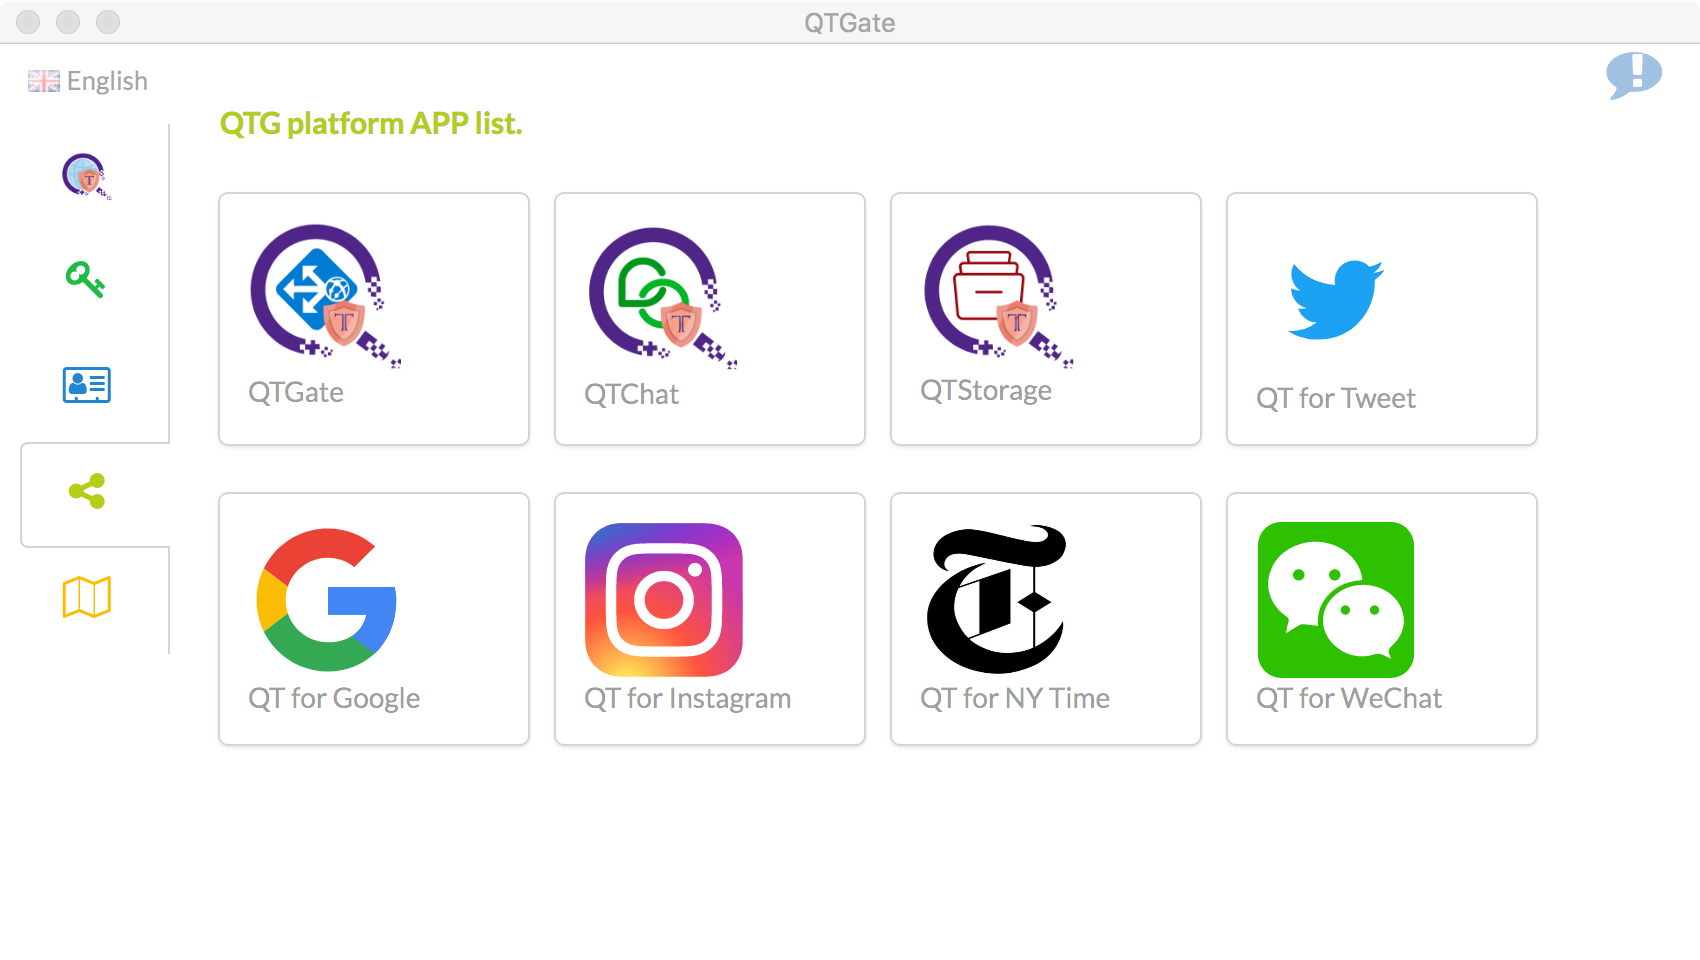
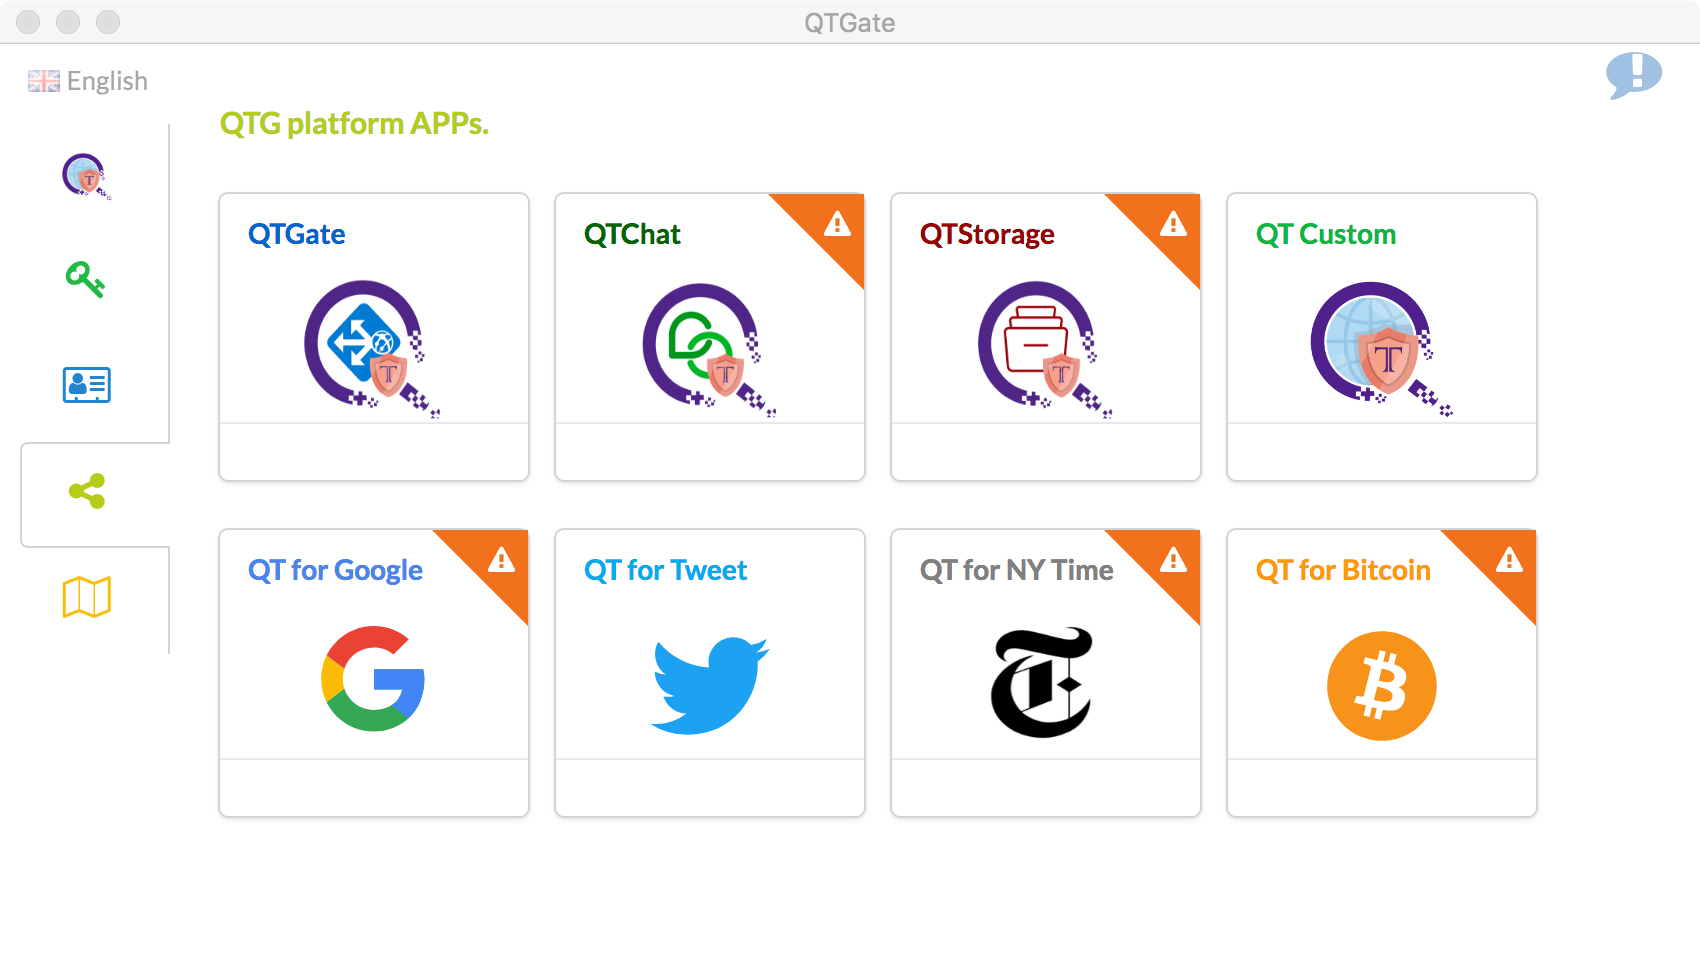
v1.3.0

diff --git a/app/public/scripts/siteShare.ts b/app/public/scripts/siteShare.ts
@@ -563,19 +563,19 @@ const infoDefine = [
             comesoon:'即将推出',
             information: 'QTG平台的应用程序',
             qtgateGateway: 'QTGate提供的高质量上网技术iOPN和@OPN，在QTGate全球16个区域，当场定制您专属的代理服务器，变换您的IP地址隐身无障碍的访问互联网',
-            app:['Q梯', 'Q信', 'QT石洞','QT平台业务定制','QT谷歌','QT推特','QT Instagram','QT纽时','QT微信'],
+            app:['Q梯', 'Q信', 'QT石洞','QT平台业务定制','QT谷歌','QT推特','QT Instagram','QT纽时','QT微信','QT比特币钱包'],
             
             dimmer: [
-                'QTGate提供的高质量定制VPN服务器业务，能够让您隐身安全的不受别人注意的网上冲浪。',
-                'QTGate提供的推特风格隐身匿名不被封锁的社交媒体',
-                'QTGate提供的安全隐私文件存储系统',
-                'QTGate承接定制各类公众服务类及跨国企业私有APP业务',
-                'QTGate提供的免VPN免代理谷歌检索客户端',
-                'QTGate提供的免VPN免代理推特客户端',
-                'QTGate提供的免VPN免代理Instagram客户端',
-                'QTGate提供的免VPN免代理纽约时报客户端',
-                'QTGate提供的隐身微信客户端，可点对点加密通讯',
-                
+                '高质量定制VPN代理服务器，让您隐身安全不受注意的网上冲浪。 ',
+                '推特风格隐身匿名去中心化不被封锁的社交媒体',
+                '安全隐私文件存储系统',
+                'QTG承接定制各类公众服务类及跨国企业私有APP业务',
+                '免代理匿名谷歌检索客户端',
+                '免代理匿名推特客户端',
+                '免代理匿名Instagram客户端',
+                '免代理匿名纽约时报客户端',
+                '免代理匿名微信客户端，点对点加密通讯',
+                '不被封锁的比特币钱包客户端'
             ]
         }, 
 
@@ -751,18 +751,19 @@ const infoDefine = [
             comesoon:'まもなく登場します。',
             information: 'QTGプラットフォームアプリケーション',
             qtgateGateway:'QTGateご提供する高品質ゲットウェイサービス、グローバルに１６区域とQTGate独自のiOPNと@OPN技術により、貴方のIPアドレスをカバーして、静かに無障害にインターネットの世界へ可能です。',
-            app:['QTGate', 'QTChat', 'QTStorage','QTカスタム業務','QT for Google','QT for Tweet','QT for Instagram','QT for NY Time','QT for WeChat'],
+            app:['QTGate', 'QTChat', 'QTStorage','QTカスタム業務','QT for Google','QT for Tweet','QT for Instagram','QT for NY Time','QT for WeChat','QT ' ],
             
             dimmer: [
-                'QTGateご提供する高品質ゲットウェイサービス、静かに無障害にインターネットの世界へ可能です。',
-                'QTGateご提供するツイートスタイルの匿名ソーシャルメディア',
-                'QTGateご提供する匿名ファイルプライバシーストレージ',
-                'QTGateプラットフォームに公衆及び私有ビジネスAPPの作成業務',
-                'QTGateご提供するVPN不要あなたのIPアドレスをカバーして匿名Googleサーチ端末',
-                'QTGateご提供するVPN不要あなたのIPアドレスをカバーして匿名Tweet端末',
-                'QTGateご提供するVPN不要あなたのIPアドレスをカバーして匿名Instagram端末',
-                'QTGateご提供するVPN不要あなたのIPアドレスをカバーして匿名NY Time端末',
-                'QTGateご提供するVPN不要あなたのIPアドレスをカバーして匿名WeChat端末',
+                '高品質ゲットウェイサービス、静かに自由になるインターネットの世界へ',
+                'ツイートスタイルの匿名ソーシャルメディア',
+                'QTGご提供する匿名ファイルプライバシーストレージ',
+                'QTGプラットフォームに公衆及び私有ビジネスAPPの作成業務',
+                'QTGご提供するVPN不要な匿名Googleサーチ端末',
+                'QTGご提供するVPN不要な匿名Tweet端末',
+                'QTGご提供するVPN不要な匿名Instagram端末',
+                'QTGご提供するVPN不要な匿名NY Time端末',
+                'QTGご提供するVPN不要な匿名WeChat端末',
+                'QTGご提供する無障害通信ビットコイン財布端末'
                 
             ]
         }, 
@@ -1348,19 +1349,19 @@ const infoDefine = [
             information: 'QTG platform APPs.',
             comesoon:'Come soon.',
             qtgateGateway: 'QTGate gateway service. High speed, total privacy, ultra secure and easy to use. Your gateway to a secure and open internet.',
-            app:['QTGate', 'QTChat', 'QTStorage','QT Custom','QT for Google','QT for Tweet','QT for Instagram','QT for NY Time','QT for WeChat'],
+            app:['QTGate', 'QTChat', 'QTStorage','QT Custom','QT for Google','QT for Tweet','QT for Instagram','QT for NY Time','QT for WeChat','QT for Bitcoin'],
             
             dimmer: [
                 'QTGate gateway service. High speed, to a secure and open internet.',
-                'Private and secure, Tweet style social media.',
+                'Private and secure, decentralized Tweet style social media.',
                 'The secure and Private cloud storage and file sharing.',
-                'QTGate provate custom business for public and private APP.',
+                'Provate custom business solution for public or private APPs in QTG platform.',
                 'Privacy Google search client without VPN.',
                 'Privacy Tweet client without VPN.',
                 'Privacy Instagram client without VPN.',
                 'Privacy NY Time client without VPN.',
                 'Privacy WeChat client without VPN.',
-                
+                'QTG for Bitcoin wallet, without VPN.'
             ]
         }, 
         account:{
@@ -1984,19 +1985,20 @@ const infoDefine = [
         thirdParty: {
             information: 'QTG匿名平台應用程序',
             comesoon:'即將登場',
-            app:['Q梯','Q信','QT石洞','QT平台業務訂製','QT谷歌','QT推特','QT Instagram','QT紐時','QT微信'],
+            app:['Q梯','Q信','QT石洞','QT平台業務訂製','QT谷歌','QT推特','QT Instagram','QT紐時','QT微信','QT比特幣錢包'],
             qtgateGateway: 'QTGate提供的高質量上網技術iOPN和@OPN，在QTGate全球16個區域，當場定制您專屬的代理服務器，變換您的IP地址隱身無障礙的訪問互聯網',
             
             dimmer: [
-                'QTGate提供的高質量定制VPN服務器業務，能夠讓您隱身安全的不受別人注意的網上沖浪。 ',
-                'QTGate提供的推特風格隱身匿名不被封鎖的社交媒體',
-                'QTGate提供的安全隱私文件存儲系統',
-                'QTGate承接定制各類公眾服務類及跨國企業私有APP業務',
-                'QTGate提供的免VPN免代理谷歌檢索客戶端',
-                'QTGate提供的免VPN免代理推特客戶端',
-                'QTGate提供的免VPN免代理Instagram客戶端',
-                'QTGate提供的免VPN免代理紐約時報客戶端',
-                'QTGate提供的隱身微信客戶端，可點對點加密通訊',
+                '高質量定制VPN代理服務器，讓您隱身安全不受注意的網上沖浪。',
+                '推特風格隱身匿名去中心化不被封鎖的社交媒體',
+                '安全隱私文件存儲系統',
+                'QTG承接定制各類公眾服務類及跨國企業私有APP業務',
+                '免代理匿名谷歌檢索客戶端',
+                '免代理匿名推特客戶端',
+                '免代理匿名Instagram客戶端',
+                '免代理匿名紐約時報客戶端',
+                '免代理匿名微信客戶端，點對點加密通訊',
+                '不被封鎖的比特幣錢包客戶端'
                 
             ]
         }, 

diff --git a/app/public/scripts/home.ts b/app/public/scripts/home.ts
@@ -2931,6 +2931,7 @@ const appList = [
         commentCount: ko.observable(),
         titleColor: '#0066cc',
         comeSoon: false,
+        show: true,
         click: ( view: view_layout.view ) => { return view.QTGateAppClick () },
         image: '/images/qtgateGateway.png'
     },{
@@ -2940,6 +2941,7 @@ const appList = [
         commentCount: ko.observable(0),
         titleColor: '#006600',
         comeSoon: true,
+        show: true,
         image: '/images/qtchat.png',
         click: ( view: view_layout.view ) => { return },
     },{
@@ -2949,6 +2951,7 @@ const appList = [
         commentCount: ko.observable(0),
         titleColor: '#990000',
         comeSoon: true,
+        show: true,
         image: '/images/qtStorage.png',
         click: ( view: view_layout.view ) => { return },
     },{
@@ -2958,6 +2961,7 @@ const appList = [
         commentCount: ko.observable(0),
         titleColor: '#09b83e',
         comeSoon: false,
+        show: true,
         image: '/images/512x512.png',
         click: ( view: view_layout.view ) => { return },
     },{
@@ -2967,6 +2971,7 @@ const appList = [
         commentCount: ko.observable(0),
         titleColor: '#4885ed',
         comeSoon: true,
+        show: true,
         image: '/images/Google__G__Logo.svg',
         click: ( view: view_layout.view ) => { return },
     },{
@@ -2976,38 +2981,60 @@ const appList = [
         commentCount: ko.observable(0),
         titleColor: '#00aced',
         comeSoon: false,
+        show: true,
         image: '/images/Twitter_Logo_Blue.svg',
         click: ( view: view_layout.view ) => { 
             const { shell } = require ( 'electron' )
             event.preventDefault ()
             return shell.openExternal ( `http://${ view.config().localIpAddress[0] }:2000/Twitter` )
         },
-    },{
+    },
+
+    {
         name: 'QTInstagram',
         likeCount: ko.observable (0),
         liked: ko.observable (false),
         commentCount: ko.observable(0),
         titleColor: '#cd486b',
+        show: false,
         image: '/images/Instagram_logo_2016.svg',
         comeSoon: true,
         click: ( view: view_layout.view ) => { return },
-    },{
+    }
+    
+    ,{
         name: 'QTNYTime',
         likeCount: ko.observable (0),
         liked: ko.observable (false),
         commentCount: ko.observable(0),
         titleColor: 'grey',
         comeSoon: true,
+        show: true,
         image: '/images/nyt.png',
         click: ( view: view_layout.view ) => { return },
-    },{
+    },
+    
+    {
         name: 'QTWeChat',
         likeCount: ko.observable (0),
         liked: ko.observable (false),
         commentCount: ko.observable(0),
         titleColor: '#09b83e',
         comeSoon: true,
+        show: false,
         image: '/images/wechat.svg',
+        click: ( view: view_layout.view ) => { return },
+    }
+    
+    ,{
+        name: 'QTBitcoin',
+        show: true,
+        likeCount: ko.observable (0),
+        liked: ko.observable ( false ),
+        commentCount: ko.observable(0),
+        titleColor: '#FF9900',
+        comeSoon: true,
+        image: '/images/Bitcoin.svg',
         click: ( view: view_layout.view ) => { return },
     }
 ]

diff --git a/app/public/scripts/home.js b/app/public/scripts/home.js
@@ -2568,6 +2568,7 @@ const appList = [
         commentCount: ko.observable(),
         titleColor: '#0066cc',
         comeSoon: false,
+        show: true,
         click: (view) => { return view.QTGateAppClick(); },
         image: '/images/qtgateGateway.png'
     }, {
@@ -2577,6 +2578,7 @@ const appList = [
         commentCount: ko.observable(0),
         titleColor: '#006600',
         comeSoon: true,
+        show: true,
         image: '/images/qtchat.png',
         click: (view) => { return; },
     }, {
@@ -2586,6 +2588,7 @@ const appList = [
         commentCount: ko.observable(0),
         titleColor: '#990000',
         comeSoon: true,
+        show: true,
         image: '/images/qtStorage.png',
         click: (view) => { return; },
     }, {
@@ -2595,6 +2598,7 @@ const appList = [
         commentCount: ko.observable(0),
         titleColor: '#09b83e',
         comeSoon: false,
+        show: true,
         image: '/images/512x512.png',
         click: (view) => { return; },
     }, {
@@ -2604,6 +2608,7 @@ const appList = [
         commentCount: ko.observable(0),
         titleColor: '#4885ed',
         comeSoon: true,
+        show: true,
         image: '/images/Google__G__Logo.svg',
         click: (view) => { return; },
     }, {
@@ -2613,38 +2618,56 @@ const appList = [
         commentCount: ko.observable(0),
         titleColor: '#00aced',
         comeSoon: false,
+        show: true,
         image: '/images/Twitter_Logo_Blue.svg',
         click: (view) => {
             const { shell } = require('electron');
             event.preventDefault();
             return shell.openExternal(`http://${view.config().localIpAddress[0]}:2000/Twitter`);
         },
-    }, {
+    },
+    {
         name: 'QTInstagram',
         likeCount: ko.observable(0),
         liked: ko.observable(false),
         commentCount: ko.observable(0),
         titleColor: '#cd486b',
+        show: false,
         image: '/images/Instagram_logo_2016.svg',
         comeSoon: true,
         click: (view) => { return; },
-    }, {
+    },
+    {
         name: 'QTNYTime',
         likeCount: ko.observable(0),
         liked: ko.observable(false),
         commentCount: ko.observable(0),
         titleColor: 'grey',
         comeSoon: true,
+        show: true,
         image: '/images/nyt.png',
         click: (view) => { return; },
-    }, {
+    },
+    {
         name: 'QTWeChat',
         likeCount: ko.observable(0),
         liked: ko.observable(false),
         commentCount: ko.observable(0),
         titleColor: '#09b83e',
         comeSoon: true,
+        show: false,
         image: '/images/wechat.svg',
+        click: (view) => { return; },
+    },
+    {
+        name: 'QTBitcoin',
+        show: true,
+        likeCount: ko.observable(0),
+        liked: ko.observable(false),
+        commentCount: ko.observable(0),
+        titleColor: '#FF9900',
+        comeSoon: true,
+        image: '/images/Bitcoin.svg',
         click: (view) => { return; },
     }
 ];

diff --git a/index.js b/index.js
@@ -16,7 +16,7 @@
  * limitations under the License.
  */
 Object.defineProperty(exports, "__esModule", { value: true });
-const DEBUG = true;
+const DEBUG = false;
 const Fs = require("fs");
 const Os = require("os");
 const path_1 = require("path");

diff --git a/index.ts b/index.ts
@@ -15,7 +15,7 @@
  * limitations under the License.
  */
 
-const DEBUG = true
+const DEBUG = false
 
 import * as Fs from 'fs'
 import * as Os from 'os'

diff --git a/README.md b/README.md
@@ -117,7 +117,7 @@ QTG網絡提供了以上問題的解決方案
 ## QTGate プラットフォーム APP Twitter端末
 ## Q梯平台應用程序-推特本地客戶端
 
-Q梯提供免費的免翻牆，匿名訪問推特帳戶的本地推特客戶端，它利用Q梯的強大防火牆穿透力，在不需使用VPN，代理服務器等翻牆手段的前提下，能夠完成對推特帳戶的基本操作。目前不對應推特流媒體。
+Q梯提供免費的免翻牆，匿名訪問推特帳戶的本地推特客戶端，它利用Q梯的強大防火牆穿透力，在不需使用VPN，代理服務器等翻牆手段的前提下，能夠完成對推特帳戶的基本操作。支持推特流媒體。
 ![http protocol](/resources/twitter.png?raw=true)
 
 ***
